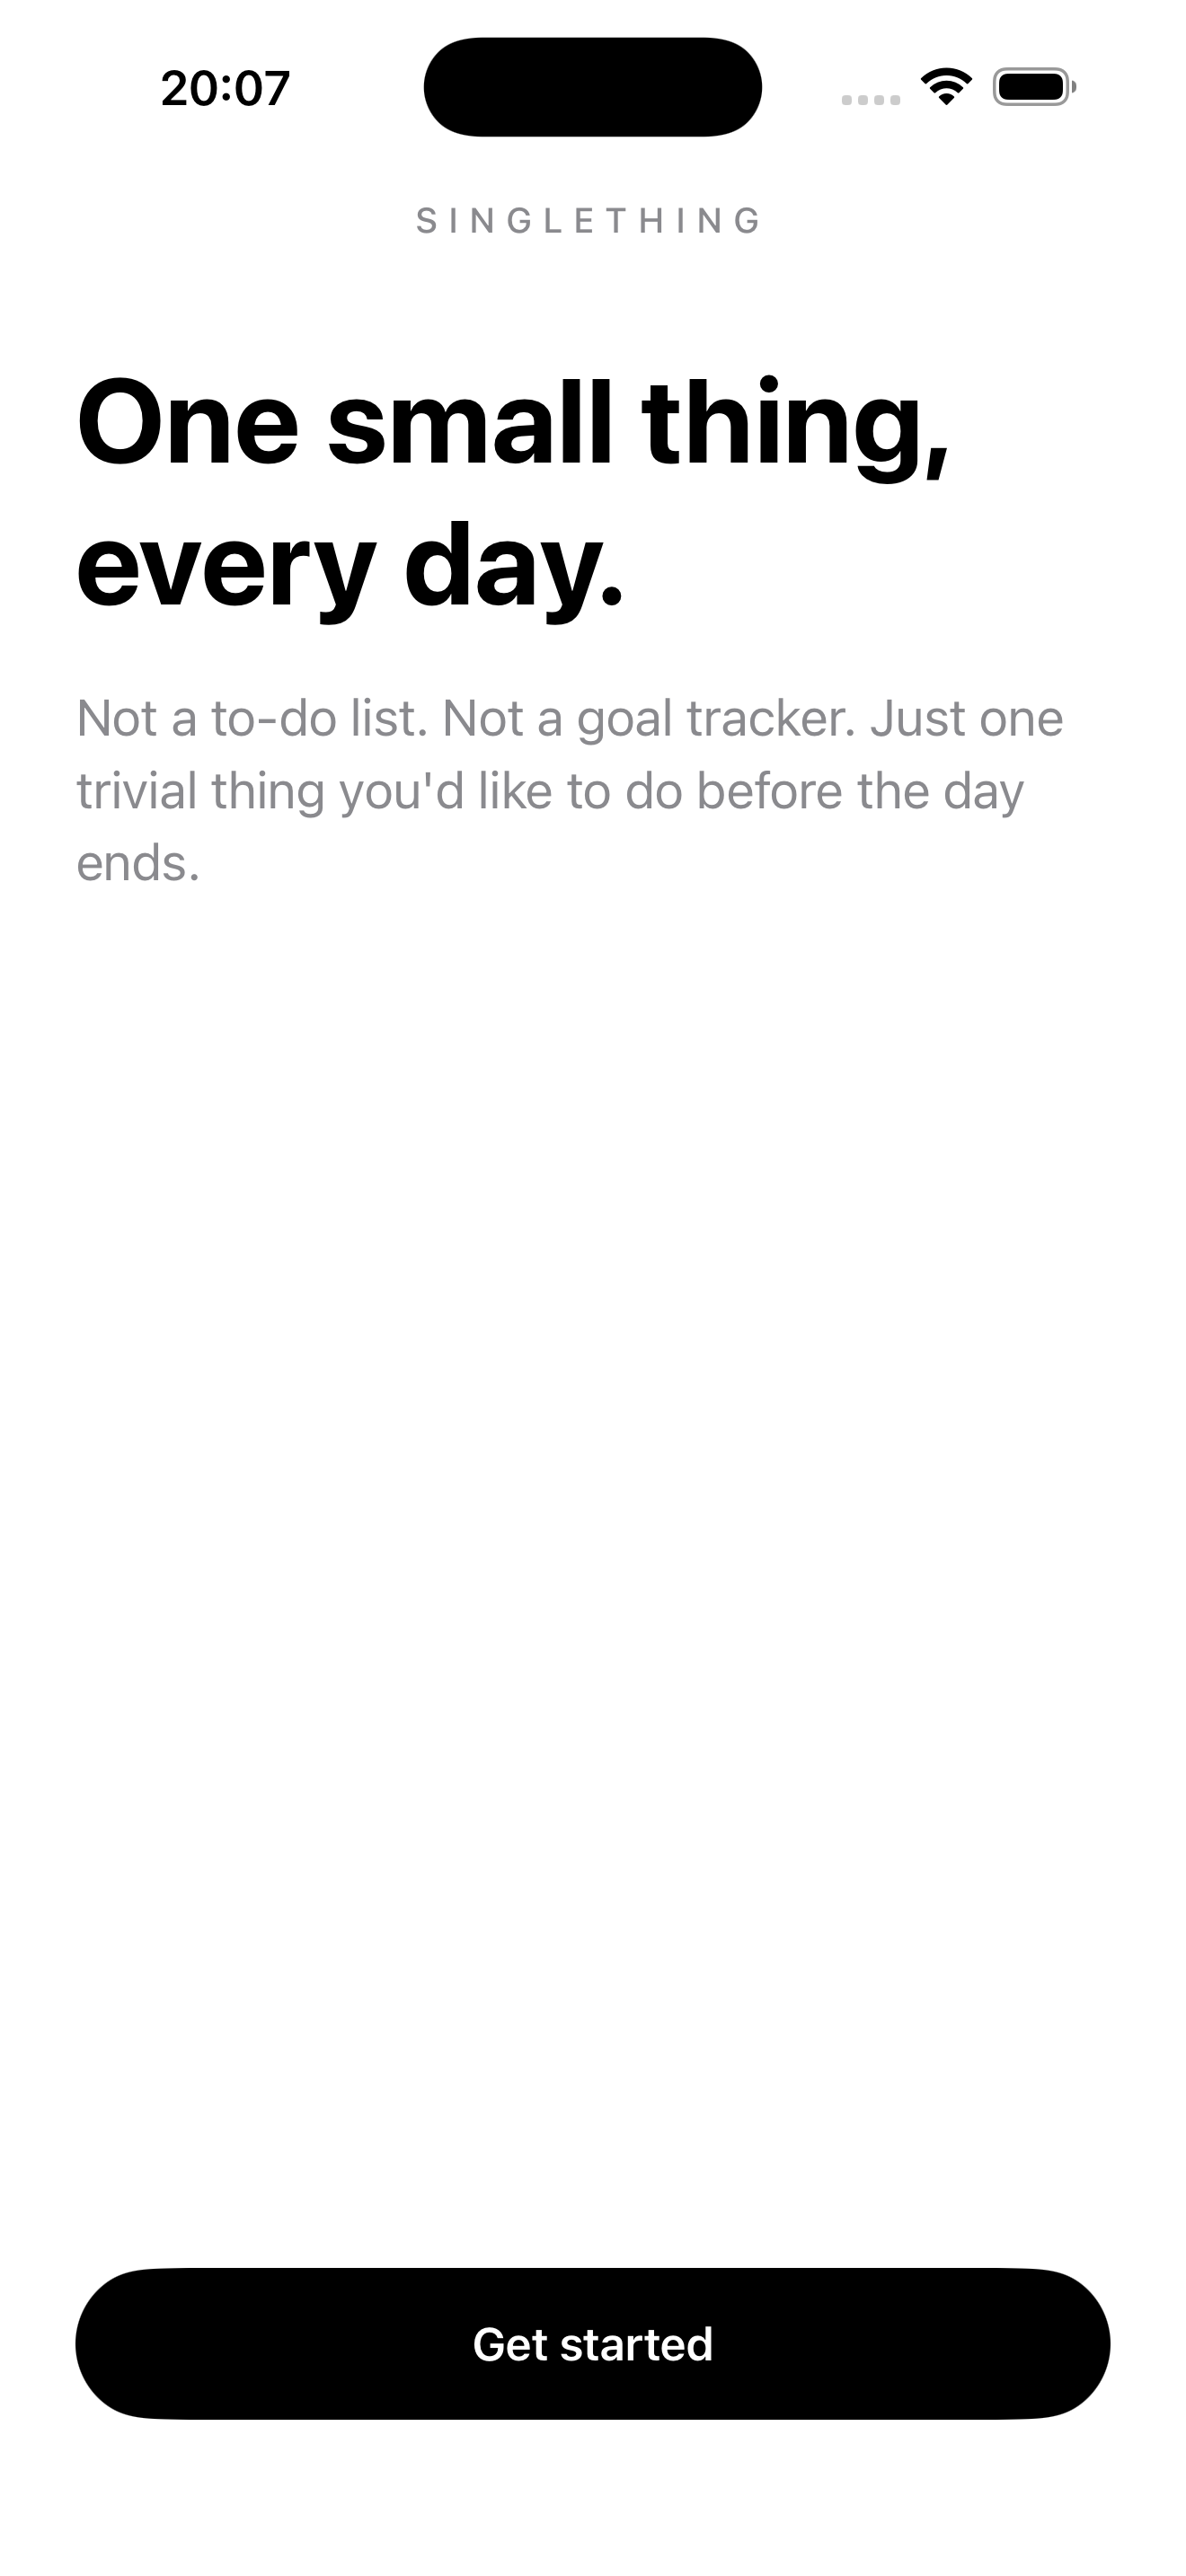
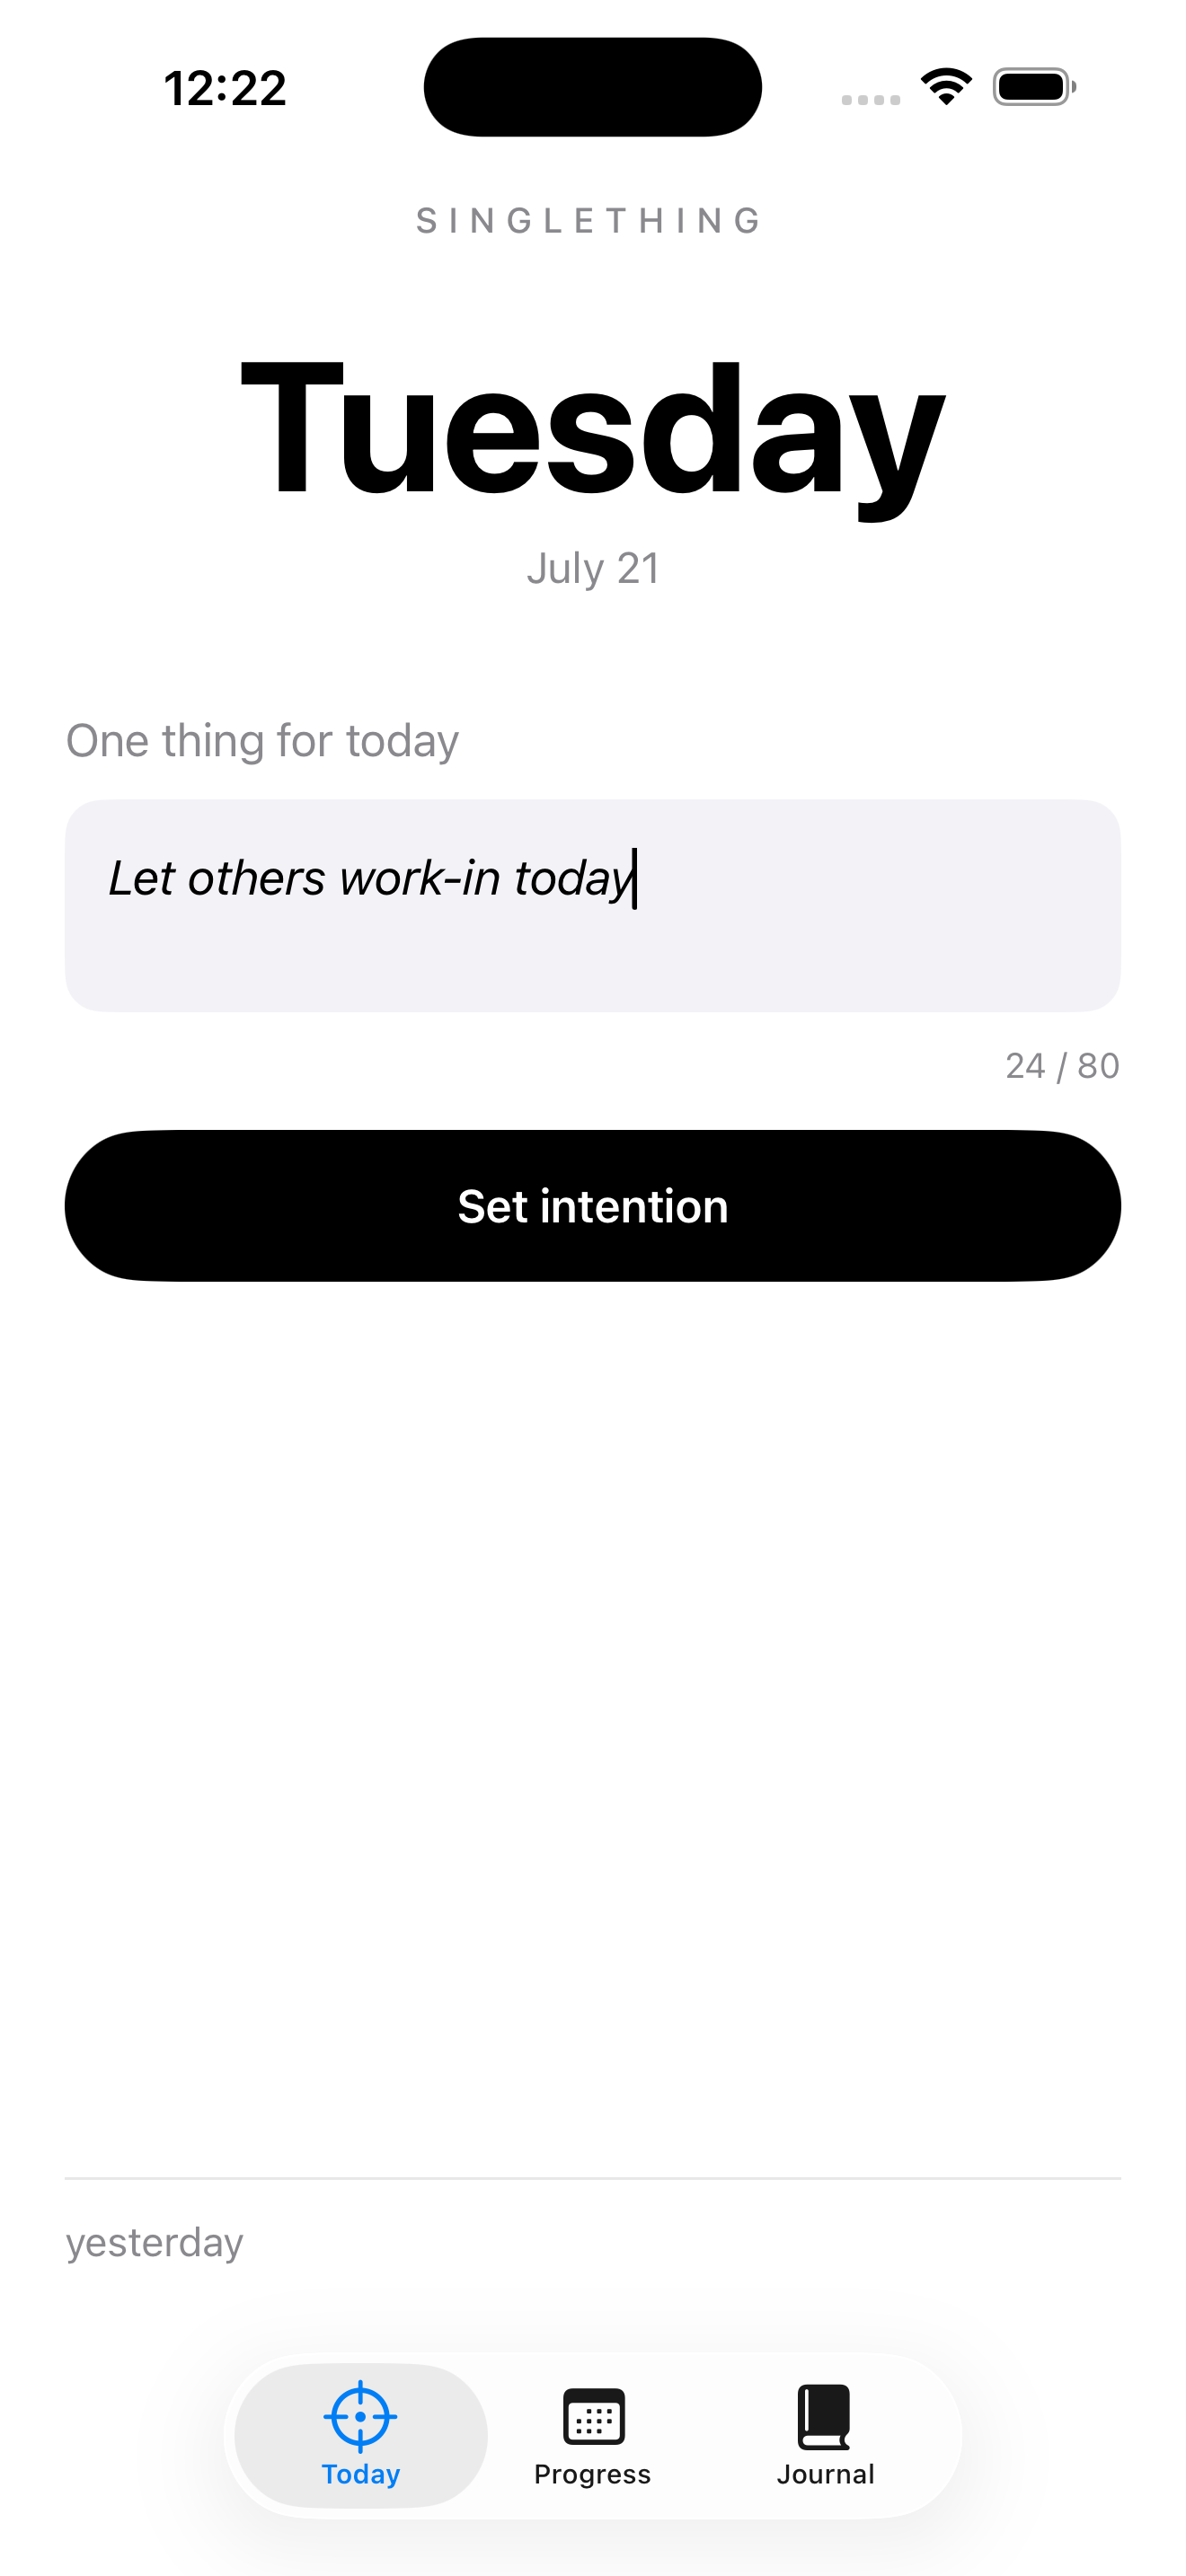
Replaces old screenshots and adds privacy policy and support url

diff --git a/singlething/privacy.html b/singlething/privacy.html
@@ -1,0 +1,49 @@
+<!DOCTYPE html>
+<html lang="en">
+<head>
+<meta charset="UTF-8">
+<meta name="viewport" content="width=device-width, initial-scale=1">
+<title>Singlething — Privacy Policy</title>
+<link rel="stylesheet" href="../css/style.css">
+<link rel="stylesheet" href="../css/doc.css">
+</head>
+<body>
+<div class="wrap section doc">
+  <a class="back-link prose" href="index.html">&larr; Singlething</a>
+
+  <h1>Privacy Policy for Singlething</h1>
+  <p class="tagline">Effective date: June 30, 2026</p>
+
+  <p>Singlething ("the app") is designed to respect your privacy. This policy explains what information the app handles and how. In short: <b>everything stays on your device, and we don't collect, transmit, or sell any of your data.</b></p>
+
+  <h2>Information we collect</h2>
+  <p><b>None.</b> Singlething does not collect personal information. We have no servers, no accounts, and no analytics. We cannot see your intentions, your activity, or anything else you do in the app.</p>
+
+  <h2>Information stored on your device</h2>
+  <p>To function, the app saves the following <b>locally on your device only</b>:</p>
+  <ul>
+    <li>The daily intentions you write and whether you logged or skipped them.</li>
+    <li>Your chosen reminder times and whether you've completed onboarding.</li>
+  </ul>
+  <p>This information is stored on your device and is never sent to us or to any third party. It may be included in your device's encrypted backups (for example iCloud or Finder backups) if you have those enabled &mdash; that is controlled by your device settings, not by the app.</p>
+
+  <h2>Notifications</h2>
+  <p>If you grant permission, Singlething schedules <b>local notifications</b> to remind you to set and log your intention at the times you choose. These reminders are generated entirely on your device. You can disable them at any time in iOS Settings &rarr; Notifications &rarr; Singlething, and the app works without them.</p>
+
+  <h2>Third parties</h2>
+  <p>Singlething contains no third-party advertising, analytics, tracking SDKs, or social media frameworks. No data is shared with anyone.</p>
+
+  <h2>Children</h2>
+  <p>The app does not knowingly collect any information from anyone, including children under 13.</p>
+
+  <h2>Removing your data</h2>
+  <p>Because all data lives on your device, deleting the app removes all of its data.</p>
+
+  <h2>Changes to this policy</h2>
+  <p>If this policy changes, the updated version will be posted at this URL with a revised effective date.</p>
+
+  <h2>Contact</h2>
+  <p>If you have questions about this policy, contact:<br><b>[email redacted]</b></p>
+</div>
+</body>
+</html>

diff --git a/singlething/support.html b/singlething/support.html
@@ -1,0 +1,36 @@
+<!DOCTYPE html>
+<html lang="en">
+<head>
+<meta charset="UTF-8">
+<meta name="viewport" content="width=device-width, initial-scale=1">
+<title>Singlething — Support</title>
+<link rel="stylesheet" href="../css/style.css">
+<link rel="stylesheet" href="../css/doc.css">
+</head>
+<body>
+<div class="wrap section doc">
+  <a class="back-link prose" href="index.html">&larr; Singlething</a>
+
+  <h1>Singlething Support</h1>
+  <p class="tagline">One small thing, every day.</p>
+
+  <h2>Contact</h2>
+  <p>For questions, bug reports, or feedback, email:<br><b>[email redacted]</b></p>
+  <p>We'll do our best to reply within a few days.</p>
+
+  <h2>Common questions</h2>
+
+  <p><b>How do notifications work?</b><br>
+  Singlething sends two optional daily reminders &mdash; a morning nudge to set your intention and an evening nudge to log it &mdash; at the times you chose during setup. You can turn them off anytime in iOS Settings &rarr; Notifications &rarr; Singlething.</p>
+
+  <p><b>Where is my data stored?</b><br>
+  Everything stays on your device. Singlething has no account and collects no data. See our <a href="privacy.html">Privacy Policy</a>.</p>
+
+  <p><b>How do I change my reminder times?</b><br>
+  Reminder times are chosen once during onboarding. In-app editing is planned for a future update &mdash; in the meantime you can disable notifications in iOS Settings.</p>
+
+  <p><b>How do I remove my data?</b><br>
+  Deleting the app removes all of its data from your device.</p>
+</div>
+</body>
+</html>

diff --git a/singlething/index.html b/singlething/index.html
@@ -1,0 +1,30 @@
+<!DOCTYPE html>
+<html lang="en">
+<head>
+<meta charset="UTF-8">
+<meta name="viewport" content="width=device-width, initial-scale=1">
+<title>Singlething</title>
+<meta name="description" content="Singlething — one small intention a day. Privacy policy and support.">
+<link rel="stylesheet" href="../css/style.css">
+<link rel="stylesheet" href="../css/doc.css">
+</head>
+<body>
+<div class="wrap section doc">
+  <a class="back-link prose" href="../index.html">&larr; Mac-Noble Brako-Kusi</a>
+
+  <div class="app-heading" style="margin-top:28px;">
+    <img src="../assets/SingletonIconLight.png" alt="">
+    <h1 style="font-size:26px;margin:0;">Singlething</h1>
+  </div>
+
+  <p class="tagline">One thing. Every day.</p>
+
+  <p>Singlething is the anti&ndash;to-do list: one small intention a day, gentle reminders, and a quiet record of your progress. Everything stays on your device.</p>
+
+  <ul>
+    <li><a href="privacy.html">Privacy Policy</a></li>
+    <li><a href="support.html">Support</a></li>
+  </ul>
+</div>
+</body>
+</html>

diff --git a/css/docs.css b/css/docs.css
@@ -1,0 +1,29 @@
+/* Typography for long-form legal/support pages (privacy, support, app landing).
+   Reuses design tokens from style.css — load that first. */
+
+.doc{ max-width: 640px; padding-top: 56px; padding-bottom: 72px; }
+
+.back-link{ display: inline-block; font-size: 14px; margin-bottom: 8px; }
+
+.doc h1{
+  font-family: var(--font-display);
+  font-size: clamp(28px, 4vw, 38px);
+  font-weight: 800; letter-spacing: -0.02em;
+  margin: 18px 0 6px;
+}
+.doc h2{
+  font-family: var(--font-display);
+  font-size: 20px; font-weight: 700;
+  margin: 34px 0 10px;
+}
+.doc .tagline{ color: var(--mute); font-size: 15px; margin: 0 0 24px; }
+.doc p{ font-size: 16px; line-height: 1.65; margin: 0 0 14px; }
+.doc ul{ margin: 0 0 14px; padding-left: 20px; }
+.doc li{ font-size: 16px; line-height: 1.7; margin-bottom: 6px; }
+.doc a{
+  font-weight: 700; text-decoration: none;
+  background-image: linear-gradient(var(--ink), var(--ink));
+  background-size: 0% 1.5px; background-repeat: no-repeat; background-position: 0 100%;
+  transition: background-size .18s ease; padding-bottom: 2px;
+}
+.doc a:hover{ background-size: 100% 1.5px; }